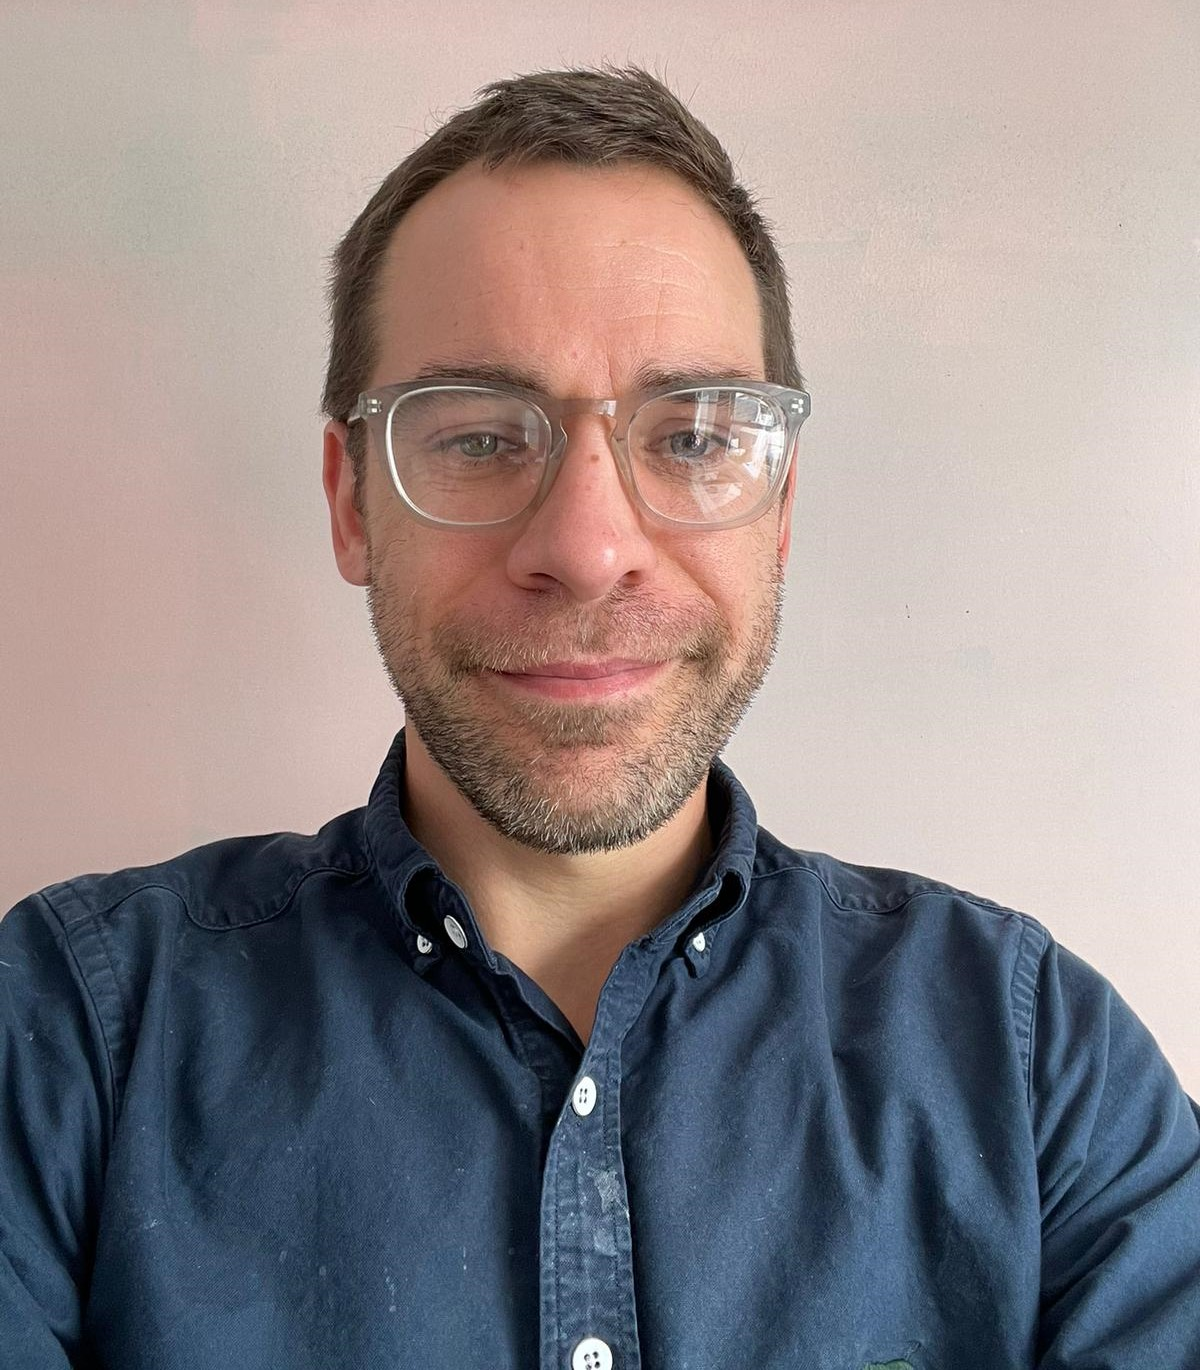
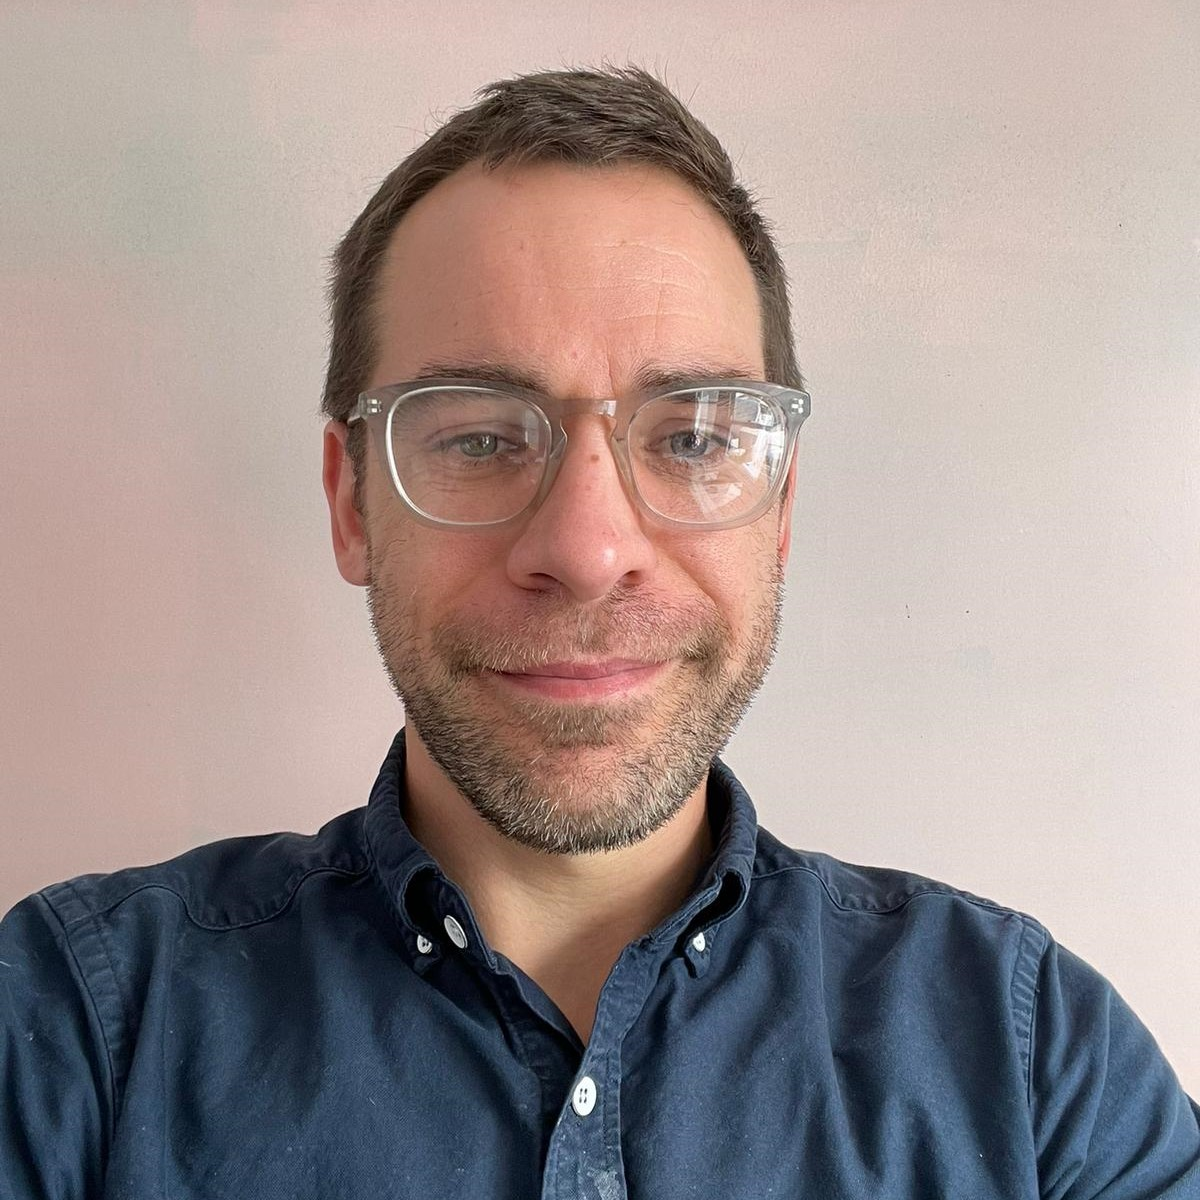
Updated profiles

diff --git a/client/src/components/Profiles.js b/client/src/components/Profiles.js
@@ -3,11 +3,11 @@ import React from 'react';
 // profile images
 import rosh from '../images/rosh.jpg';
 import ant from '../images/ant.jpg';
+import marc from '../images/marc.jpg';
 import alex from '../images/alex.jpg';
 import wendy from '../images/wendy.jpg';
 
 import Profile from './Profile';
-import avatar from '../images/avatar.png';
 
 import styles from './Profiles.module.scss';
 
@@ -37,14 +37,14 @@ function Profiles() {
         `
     }, {
         name: `Marc`,
-        title: `Co-Founder`,
-        imageLink: avatar,
-        description: `Marc joined TLS way back when Rosh and Ant were finding their legs. Another IT veteran, 
-        who is now specialising in IT security for his 9-5 job and really enjoying what he does for TLS. 
-        He also enjoys Scuba Diving as a hobby and wants to make that happen more often! 
-        He recently met his life partner and everything is finally firing on all cylinders as he deserves.
-        It is clear to see Marc's passion for helping people aligns so well with Rosh and Ant. 
-        He goes above and beyond to test and to demonstrate and to help. A fantastic addition to the team.`
+        title: `Co-Founder & IT Security Maestro`,
+        imageLink: marc,
+        description: `Marc, a pivotal member of The Lazy Society, seamlessly blends his IT security expertise with a profound commitment to community support. 
+        Joining Rosh and Ant in the nascent stages, he has been instrumental in shaping the society's ethos. Marc's professional life revolves around IT security, 
+        where he excels, but his heart beats for the community at TLS. His journey is a blend of professional rigor and personal passion, evident in his love for 
+        scuba diving and the fulfillment he finds in his personal life. Marc is known for going the extra mile, often dipping into his own resources to resolve 
+        issues that members face. His presence in The Lazy Society is not just about imparting knowledge; it's about creating a nurturing and inclusive space for all.
+        `
     }, 
     {
         name: `Alex`,

diff --git a/client/src/components/Profile.module.scss b/client/src/components/Profile.module.scss
@@ -25,6 +25,7 @@
             width: 100%;
             height: 100%;
             border-radius: 100%;
+            object-fit: contain;
         }
     }
 }
